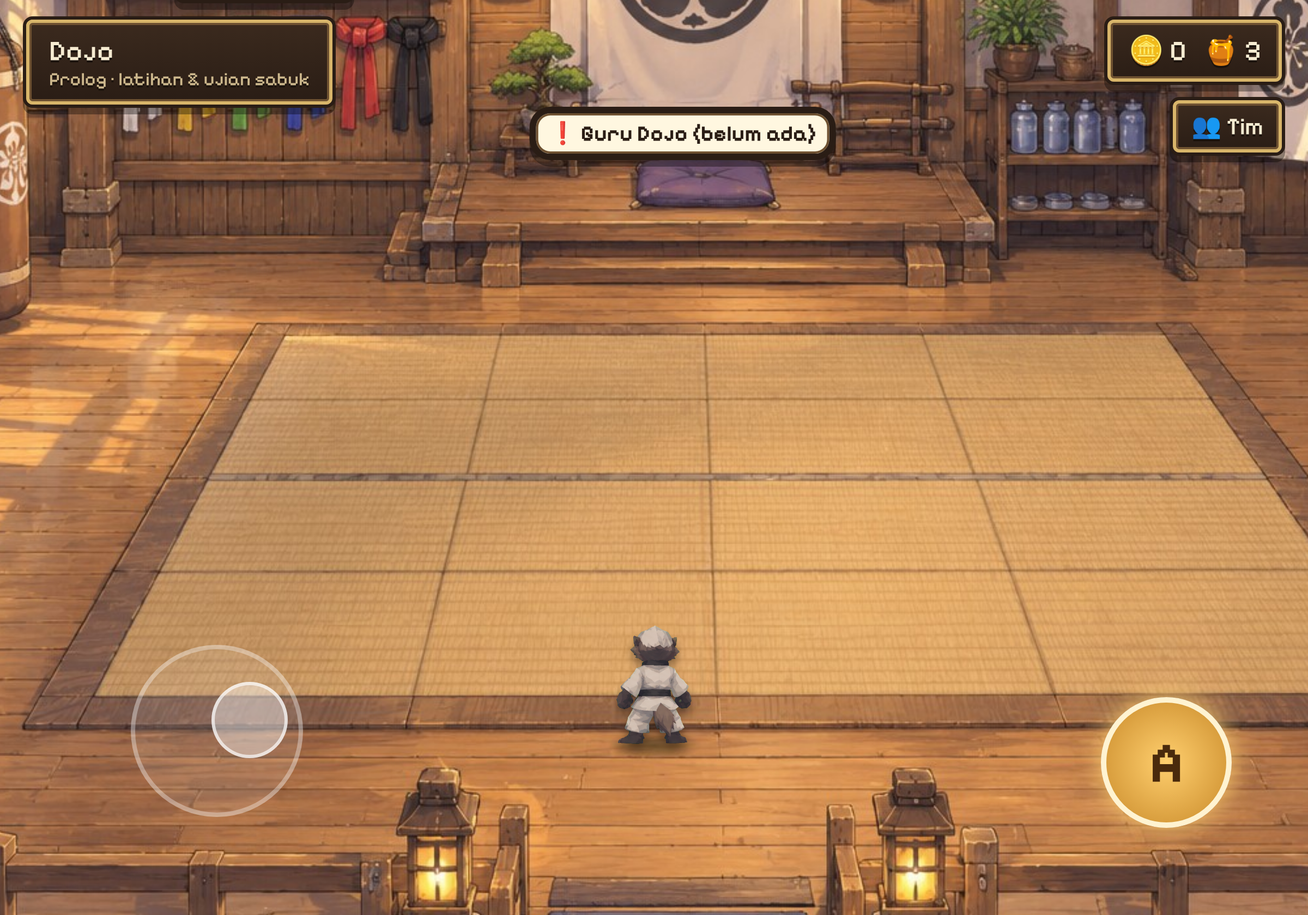
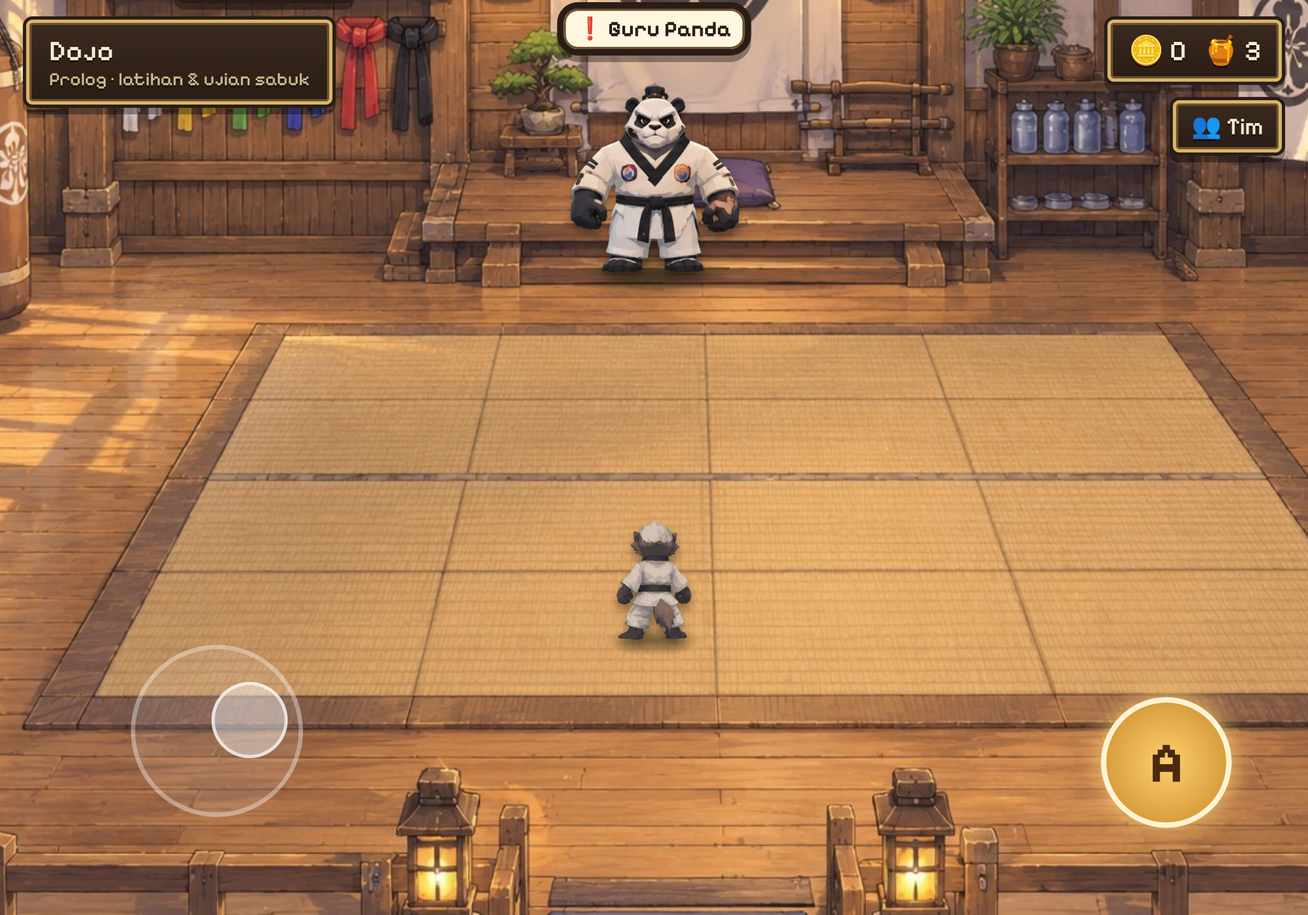
Sprite Nenek & Guru Panda dari pengguna + mockup rumah & dojo
Claude-Session: https://claude.ai/code/session_012A5oLvFsQThBvFkQXBRdxZ

Changed region(s): [[0.4062, 0.0, 0.6562, 0.3405], [0.4688, 0.5571, 0.5312, 0.8357]]

diff --git a/pohon-madu/mockup/jelajah.html b/pohon-madu/mockup/jelajah.html
@@ -44,14 +44,14 @@ const ui = (html, cls, st) => { const d = document.createElement('div'); d.class
 const M = {
   desa: { img: 'desa-akar', zoom: 1.7, cam: [600, 500], area: 'Desa Akar', sub: 'Prolog · kampung halaman Ata', ata: [760, 560], dir: 'kanan', ataH: 62,
     tags: [[300, 590, '🏠 Rumah Nenek', 'ex'], [745, 140, '🥋 Dojo'], [250, 180, '🌙 Penginapan']], a: true },
-  rumah: { img: 'rumah-nenek', zoom: 1.45, cam: [760, 560], area: 'Rumah Nenek', sub: 'Prolog', ata: [700, 700], dir: 'belakang', ataH: 72,
-    tags: [[655, 400, '❗ Peti kecil', 'ex'], [480, 120, '🖼 Lukisan Tim Jelajah Legenda']], talk: true },
-  dojo: { img: 'dalam-dojo', zoom: 1.2, cam: [768, 560], area: 'Dojo', sub: 'Prolog · latihan & ujian sabuk', ata: [768, 780], dir: 'belakang', ataH: 92,
-    tags: [[470, 210, '🥋 Rak sabuk'], [790, 330, '❗ Guru Dojo (belum ada)', 'ex']] },
+  rumah: { img: 'rumah-nenek', zoom: 1.45, cam: [760, 560], area: 'Rumah Nenek', sub: 'Prolog', ata: [740, 720], dir: 'kiri', ataH: 72,
+    tags: [[655, 400, '❗ Peti kecil', 'ex']], talk: true, npc: [['nenek/tunjuk', 560, 560, 78]] },
+  dojo: { img: 'dalam-dojo', zoom: 1.2, cam: [768, 560], area: 'Dojo', sub: 'Prolog · latihan & ujian sabuk', ata: [768, 700], dir: 'belakang', ataH: 92,
+    tags: [[470, 210, '🥋 Rak sabuk']], npc: [['guru/lipat', 0, 0, 0], ['guru/depan', 768, 420, 150]], ex: [768, 250, '❗ Guru Panda'] },
 };
 const m = M[q] || M.desa;
 PM.S = { lv: { ata: 1 } };
-Promise.all([PM.loadImg('peta/' + m.img + '.jpg'), PM.loadImg('ata/' + m.dir + '.png'), PM.loadImg('ata/wajah.png')]).then(() => {
+Promise.all([PM.loadImg('peta/' + m.img + '.jpg'), PM.loadImg('ata/' + m.dir + '.png'), PM.loadImg('ata/wajah.png'), PM.loadImg('nenek/tunjuk.png'), PM.loadImg('nenek/sapa.png'), PM.loadImg('guru/depan.png'), PM.loadImg('guru/lipat.png')]).then(() => {
   if (q === 'peta') return;
   const im = PM.IMG['peta/' + m.img + '.jpg'];
   const W = im.width * m.zoom, H = im.height * m.zoom;
@@ -62,12 +62,16 @@ Promise.all([PM.loadImg('peta/' + m.img + '.jpg'), PM.loadImg('ata/' + m.dir + '
   const [ax, ay] = P(...m.ata), h = m.ataH * m.zoom;
   const sh = document.createElement('div'); sh.className = 'sh'; Object.assign(sh.style, { left: ax + 'px', top: ay + 'px', width: h * 0.8 + 'px', height: h * 0.25 + 'px' }); map.appendChild(sh);
   const a = document.createElement('img'); a.className = 'who'; a.src = PM.IMG['ata/' + m.dir + '.png'].src; Object.assign(a.style, { left: ax + 'px', top: ay + 'px', height: h + 'px' }); map.appendChild(a);
+  (m.npc || []).forEach(([n, x, y, hh]) => { if (!hh) return; const [nx, ny] = P(x, y), H2 = hh * m.zoom;
+    const s2 = document.createElement('div'); s2.className = 'sh'; Object.assign(s2.style, { left: nx + 'px', top: ny + 'px', width: H2 * 0.8 + 'px', height: H2 * 0.25 + 'px' }); map.appendChild(s2);
+    const i2 = document.createElement('img'); i2.className = 'who'; i2.src = PM.IMG[n + '.png'].src; Object.assign(i2.style, { left: nx + 'px', top: ny + 'px', height: H2 + 'px', zIndex: Math.round(ny) }); map.appendChild(i2); });
+  if (m.ex) m.tags = m.tags.concat([[m.ex[0], m.ex[1], m.ex[2], 'ex']]);
   m.tags.forEach(([x, y, t, c]) => { const [tx, ty] = P(x, y); const d = document.createElement('div'); d.className = 'box tag ' + (c || ''); d.innerHTML = t; Object.assign(d.style, { left: tx + 'px', top: ty + 'px' }); map.appendChild(d); });
   ui(`${m.area}<small>${m.sub}</small>`, 'box', {}).id = 'area';
   ui('🪙 0 &nbsp; 🍯 3', 'box', {}).id = 'dompet';
   ui('👥 Tim', 'box', {}).id = 'btnTim';
   if (m.talk) {
-    ui(`<img src="${PM.IMG['ata/wajah.png'].src}"><div><b>Ata:</b> Nenek, ceritakan lagi tentang Pohon Madu Legendaris! <small style="color:#cdb88d">(Nenek belum ada gambarnya)</small></div>`, 'box', {}).id = 'talk';
+    ui(`<img src="${PM.IMG['nenek/sapa.png'].src}"><div><b>Nenek:</b> Ata, cucuku… dulu Nenek dan teman-teman mencari <b>Pohon Madu Legendaris</b>. Ambil peti kecil itu — ada sesuatu untukmu.</div>`, 'box', {}).id = 'talk';
   } else { ui('', '', {}).id = 'stick'; ui('A', '', {}).id = 'btnA'; }
 });
 if (q === 'peta') {
